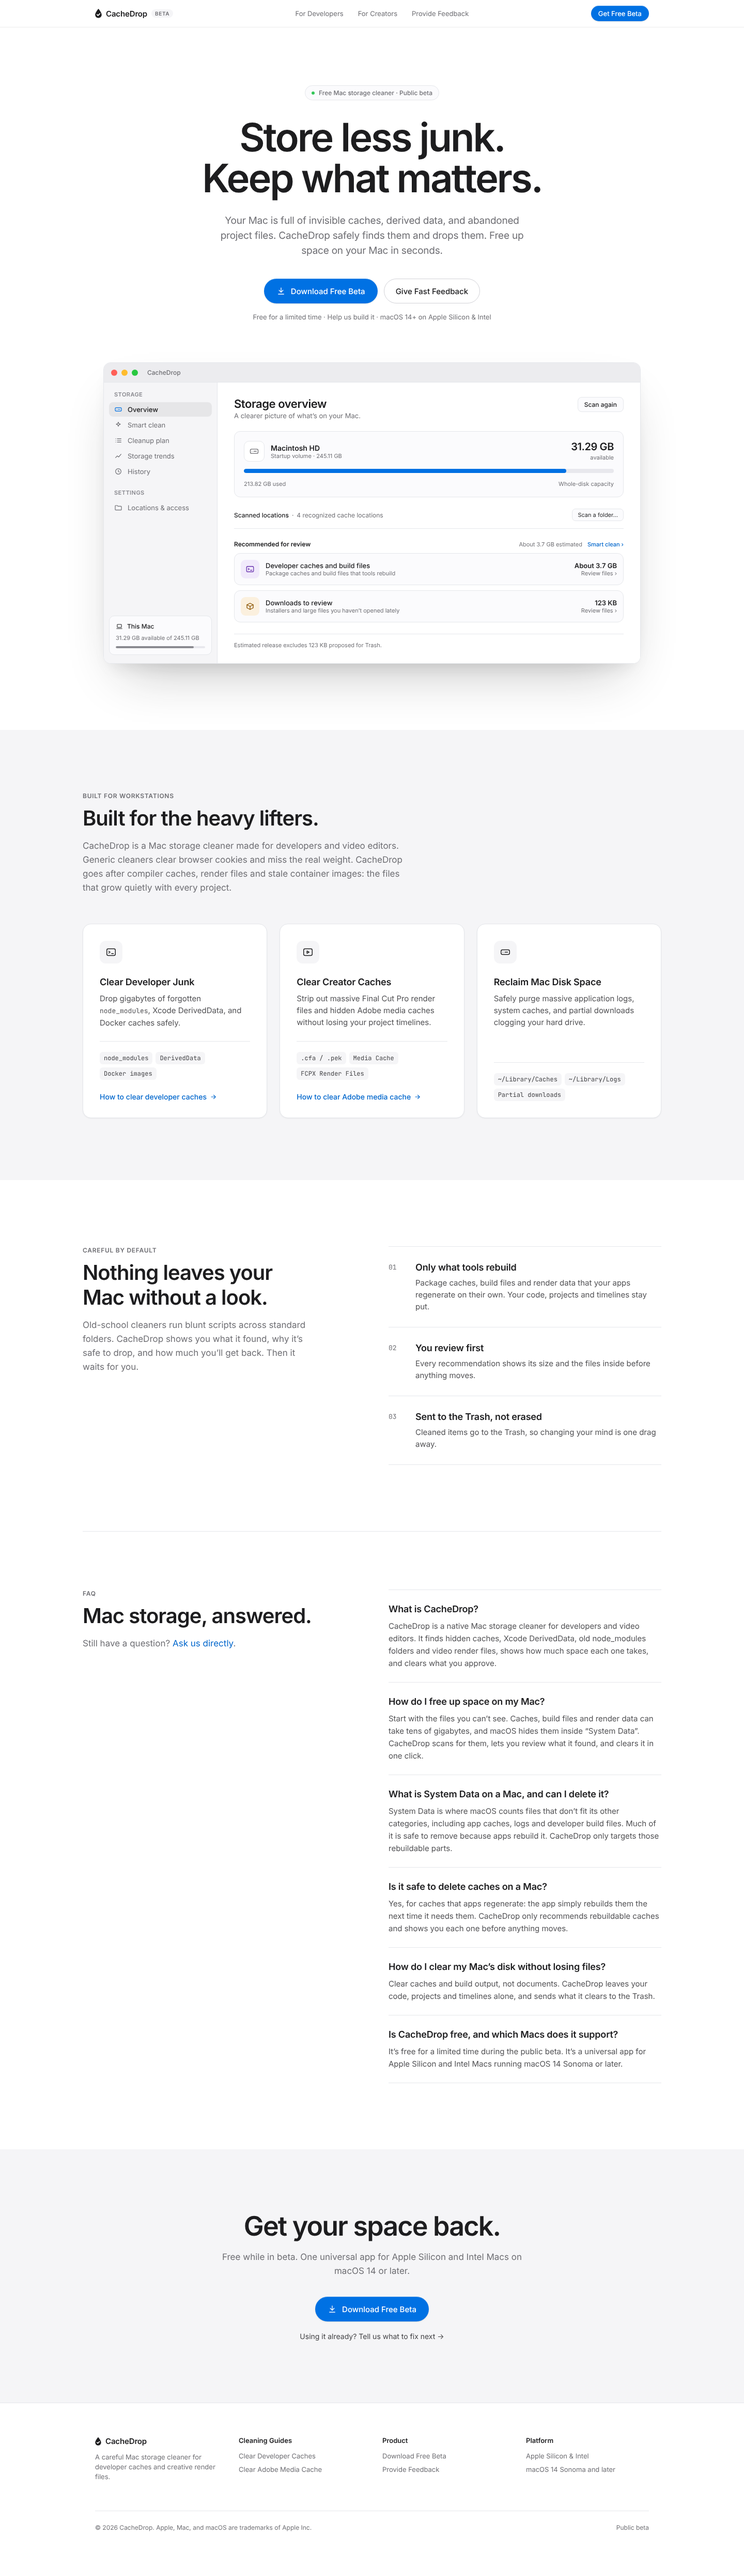
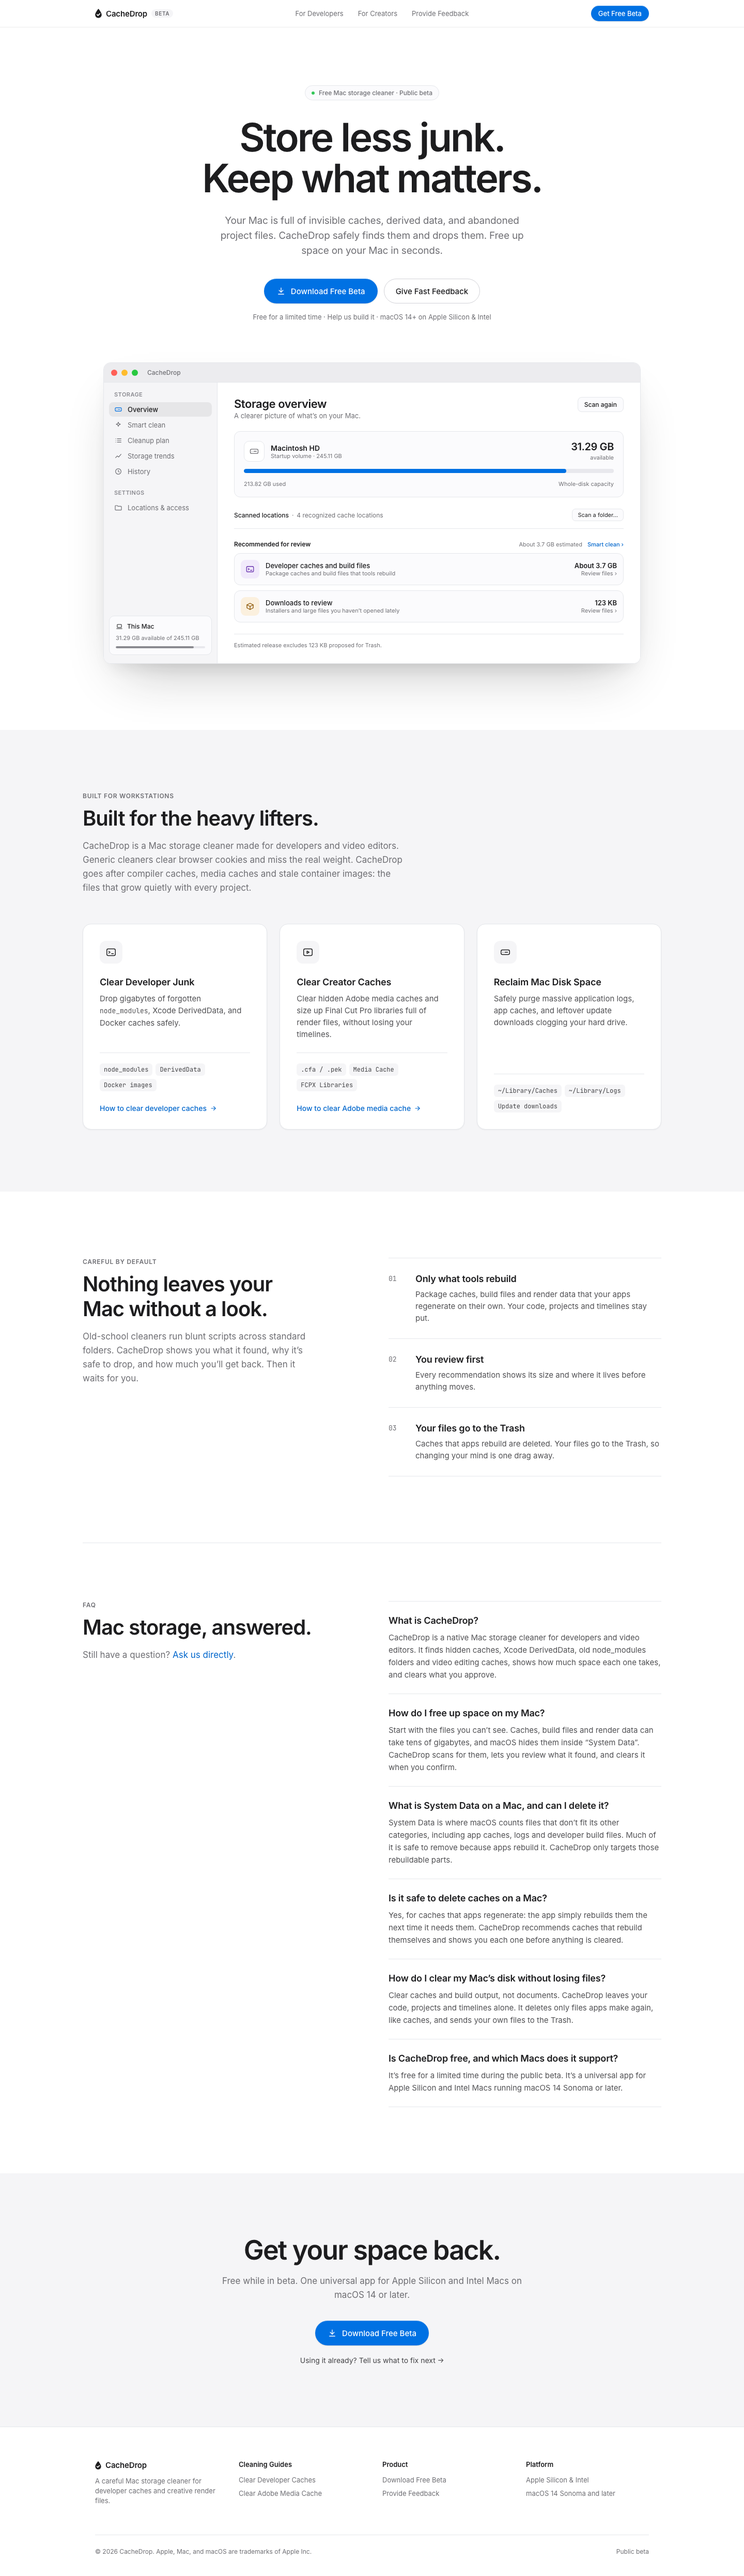
Make the homepage's claims match the app
Checked against mac-cleaner main (5bf77c7). Caches are deleted for good and
only your files go to the Trash (RESET.md Decision 3), cleaning waits for a
confirmed review, review rows show where an item lives rather than the files
inside, there is no partial-download rule, and Final Cut Pro libraries get
guidance, not cleaning. The FAQ JSON-LD and meta descriptions change in step.

The home reference renders are re-rendered from the handoff page with these
fixes applied, in the suite's Chromium.

Claude-Session: https://claude.ai/code/session_01K3hKP5mUJtUGDnSeBLJMpc

diff --git a/tests/copy-fixes.ts b/tests/copy-fixes.ts
@@ -2,10 +2,70 @@
 // The head diff and the same-browser screenshot compare the build with the handoff
 // original after these replacements, so every other byte of copy still has to match.
 // Each `from` is replaced everywhere in its page, which keeps visible FAQ text and the
-// FAQPage JSON-LD in step.
+// FAQPage JSON-LD in step. Checked against mac-cleaner main at 5bf77c7 on 2026-10-29.
 export type CopyFix = { from: string; to: string; why: string };
 
-export const copyFixes: Record<string, CopyFix[]> = {};
+export const copyFixes: Record<string, CopyFix[]> = {
+  'index.html': [
+    {
+      from: 'node_modules and render files, and clears them safely',
+      to: 'node_modules and video caches, and clears them safely',
+      why: 'The app never removes Final Cut render files; it clears the Adobe media cache (GuidanceCatalog.swift, AppDataCaches.swift).',
+    },
+    {
+      from: 'old node_modules folders and video render files',
+      to: 'old node_modules folders and video editing caches',
+      why: 'As above: Final Cut libraries get guidance only.',
+    },
+    {
+      from: 'compiler caches, render files and stale container images',
+      to: 'compiler caches, media caches and stale container images',
+      why: 'As above.',
+    },
+    {
+      from: 'Strip out massive Final Cut Pro render files and hidden Adobe media caches without losing your project timelines.',
+      to: 'Clear hidden Adobe media caches and size up Final Cut Pro libraries full of render files, without losing your timelines.',
+      why: 'Final Cut Pro libraries are listed with their size and a pointer to Final Cut’s own command (GuidanceCatalog.swift).',
+    },
+    { from: 'FCPX Render Files', to: 'FCPX Libraries', why: 'As above.' },
+    {
+      from: 'application logs, system caches, and partial downloads',
+      to: 'application logs, app caches, and leftover update downloads',
+      why: 'No partial-download rule exists; “App caches” (~/Library/Caches) and “App update downloads” do (AppCaches.swift).',
+    },
+    { from: 'Partial downloads', to: 'Update downloads', why: 'As above.' },
+    {
+      from: 'shows its size and the files inside before anything moves',
+      to: 'shows its size and where it lives before anything moves',
+      why: 'Review rows list items with a Reveal in Finder link, not the files inside (CatalogItemRows.swift).',
+    },
+    {
+      from: 'Sent to the Trash, not erased',
+      to: 'Your files go to the Trash',
+      why: 'Regenerable items are deleted permanently (RESET.md Decision 3).',
+    },
+    {
+      from: 'Cleaned items go to the Trash, so changing your mind',
+      to: 'Caches that apps rebuild are deleted. Your files go to the Trash, so changing your mind',
+      why: 'RESET.md Decision 3; this site’s Decision 23.',
+    },
+    {
+      from: 'lets you review what it found, and clears it in one click',
+      to: 'lets you review what it found, and clears it when you confirm',
+      why: 'Clean up opens a review sheet that has to be confirmed (RESET.md Decision 27).',
+    },
+    {
+      from: 'CacheDrop only recommends rebuildable caches and shows you each one before anything moves.',
+      to: 'CacheDrop recommends caches that rebuild themselves and shows you each one before anything is cleared.',
+      why: 'Smart clean also ticks old downloads and files left by deleted apps, which go to the Trash (RESET.md Decision 83).',
+    },
+    {
+      from: 'alone, and sends what it clears to the Trash.',
+      to: 'alone. It deletes only files apps make again, like caches, and sends your own files to the Trash.',
+      why: 'RESET.md Decision 3.',
+    },
+  ],
+};
 
 /** The handoff page with its agreed copy fixes applied. Throws when a fix no longer matches, so a stale entry can't pass silently. */
 export function withCopyFixes(handoffFile: string, html: string): string {
